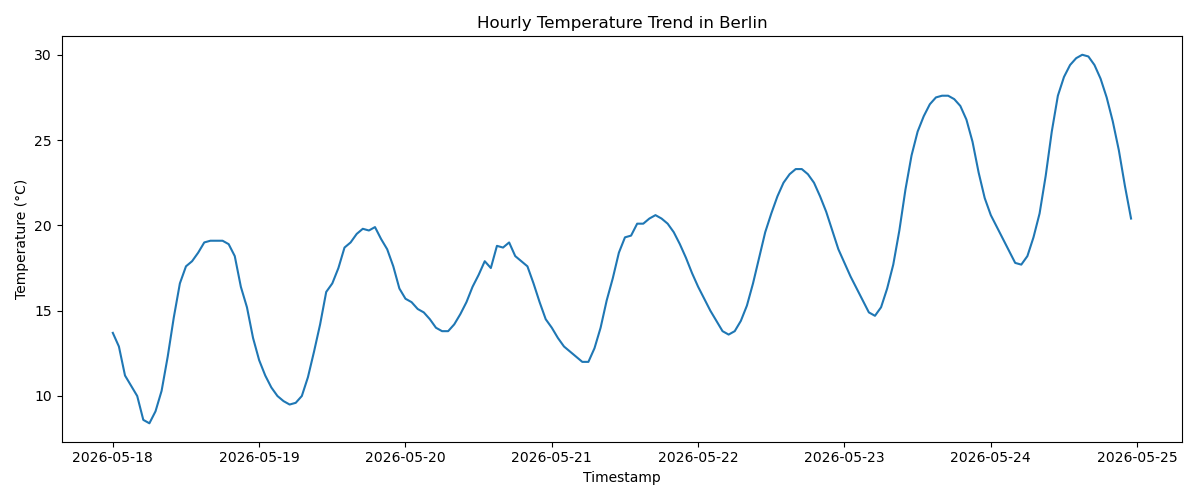
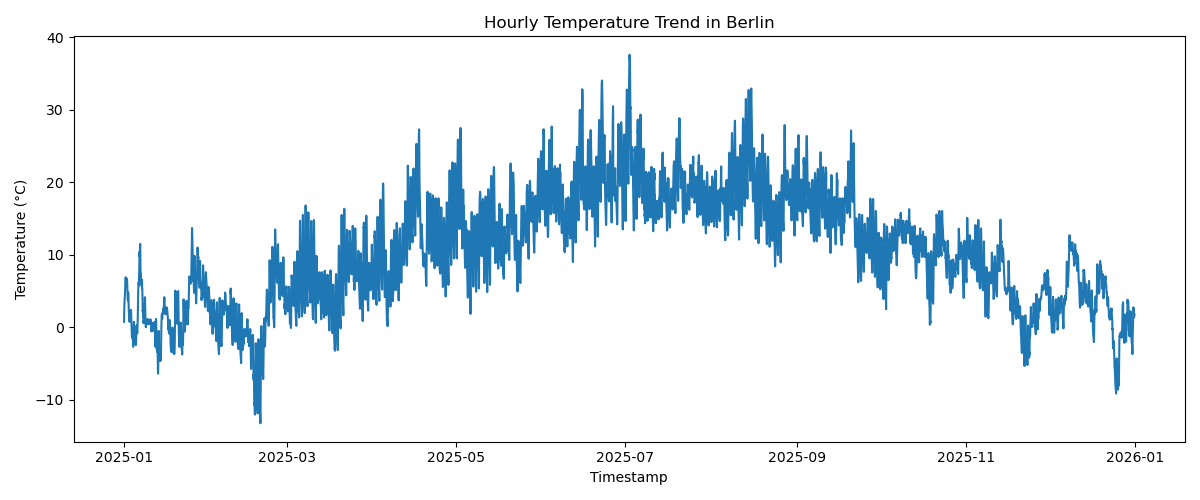
feat: update visualize.py to use 2025 historical weather data and regenerate chart

diff --git a/src/visualize.py b/src/visualize.py
@@ -5,7 +5,7 @@ import pandas as pd
 
 
 def create_temperature_trend_chart(
-    input_path: str = "data/processed/weather_hourly.csv",
+    input_path: str = "data/processed/weather_2025_historical.csv",
     output_path: str = "reports/weather_temperature_trend.png",
 ) -> None:
     df = pd.read_csv(input_path)
